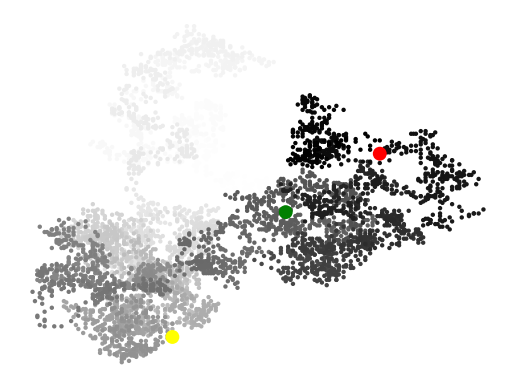
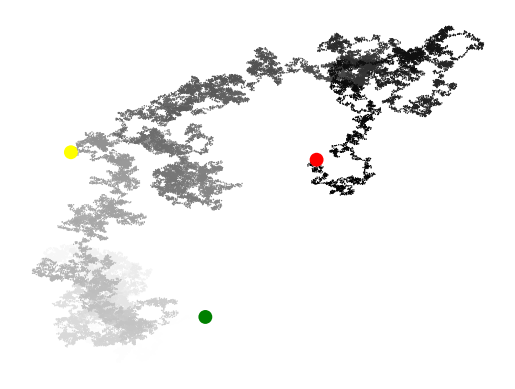
Small updates

Changed region(s): [[0.0621, 0.0617, 0.9631, 0.9563]]

diff --git a/rw_visual.py b/rw_visual.py
@@ -4,12 +4,12 @@ from random_walk import RandomWalk
 
 while True:
     # Make a random walk, and plot the points.
-    rw = RandomWalk()
+    rw = RandomWalk(50000)
     rw.fill_walk()
 
     point_numbers = list(range(rw.num_points))
     plt.scatter(rw.x_values, rw.y_values, edgecolors='none', 
-                c=point_numbers, cmap=plt.cm.Greys, s=10)
+                c=point_numbers, cmap=plt.cm.Greys, s=1)
     
     # Emphasize the first and last points.
     plt.scatter(0, 0, c='green', edgecolors='none', s=100)
@@ -17,9 +17,13 @@ while True:
                 s=100, c='yellow')
     plt.scatter(rw.x_values[-1], rw.y_values[-1], edgecolors='none',
                 s=100, c='red')
-    
+
     # Remove axes
     plt.axis('off')
+
+    # Set the size of the plotting window
+    # plt.figure(figsize=(10, 6))
+
     plt.savefig('random.png', bbox_inches='tight')
     plt.show()
 
